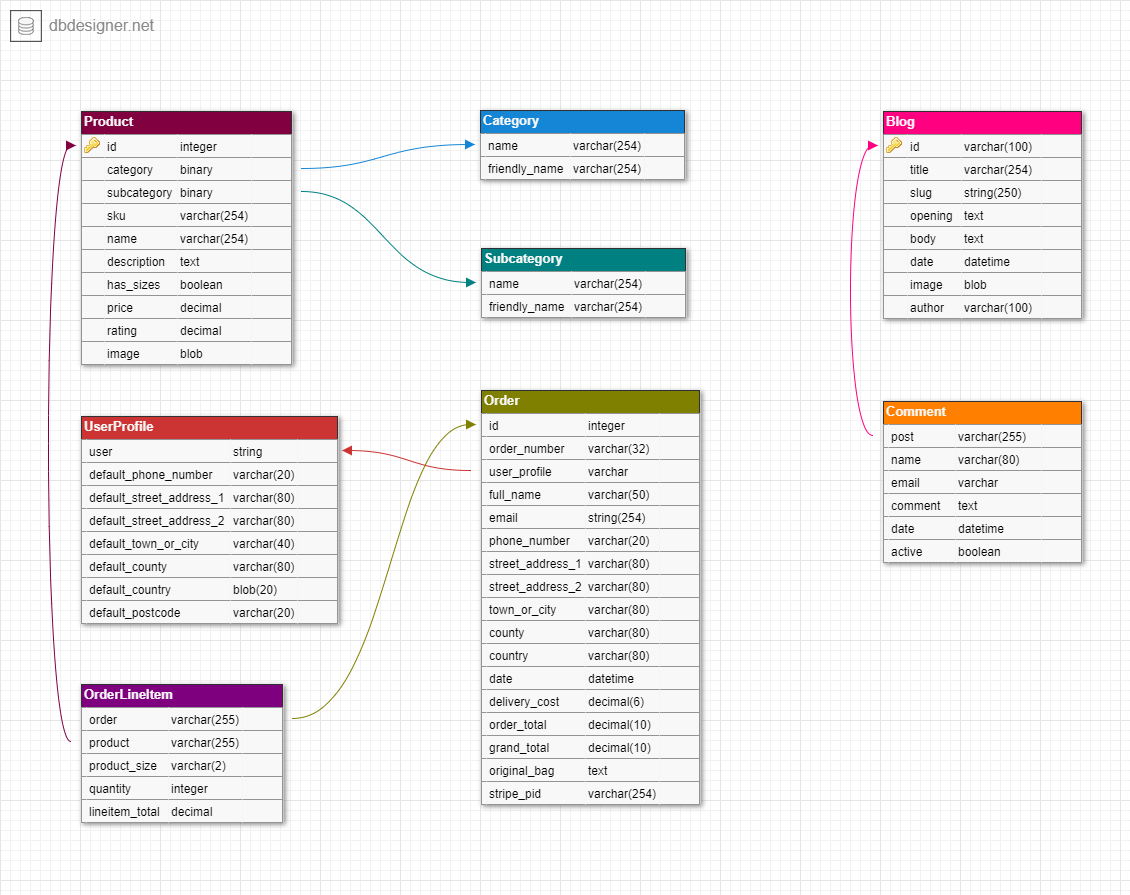
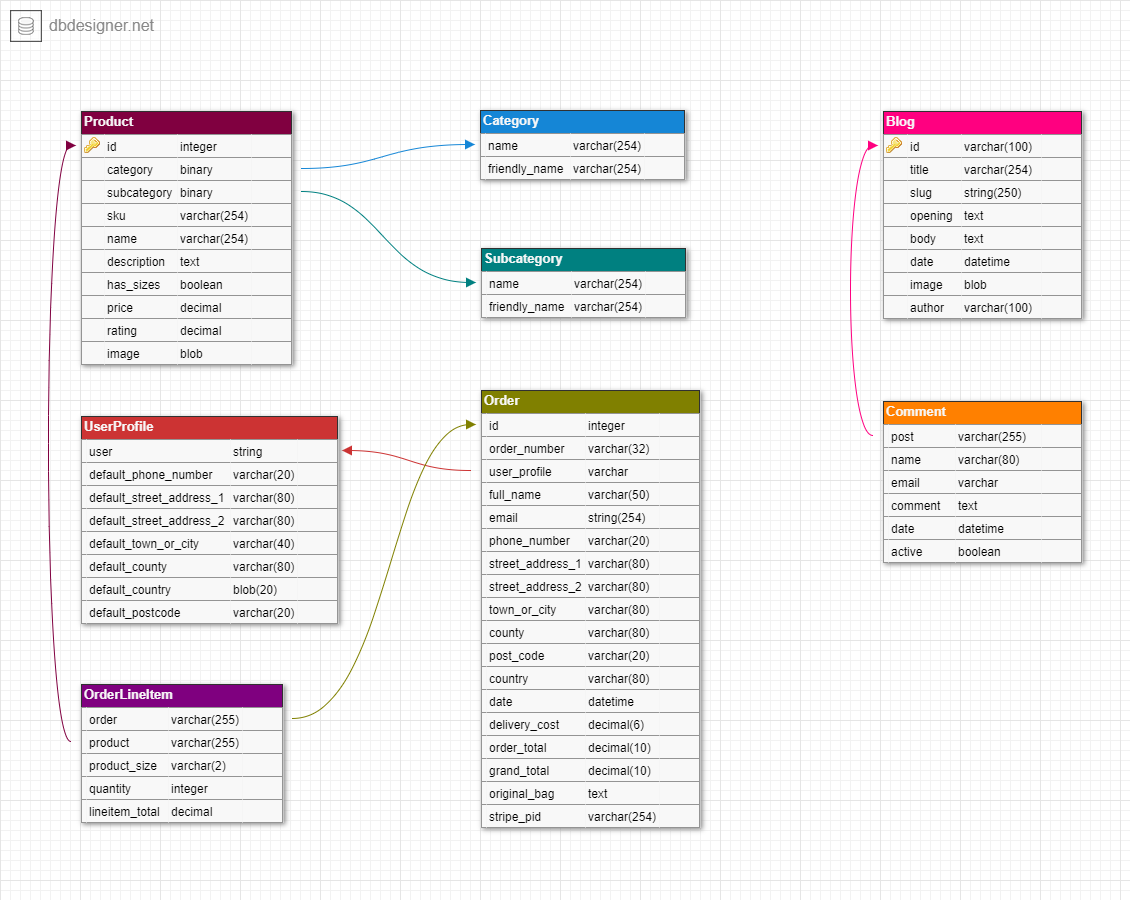
Add further content to ReadMe

diff --git a/README.md b/README.md
@@ -116,3 +116,50 @@ category and subcategory, and is also a Foreign Key to the OrderLineItem model.
 | price       | models.DecimalField |
 | rating      | models.DecimalField |
 | image       | models.ImageField   |
+
+### Category and Subcategory models
+
+The Category and Subcategory models are identical, both contain two fields. A name field which is used in the back end. The 
+other field is a friendly_name which is used to display the name to the end user.
+
+| Field         | Type             |
+|---------------|------------------|
+| name          | models.Charfield |
+| friendly_name | models.Charfield |
+
+### Order model
+
+The order model is created in the checkout app, and is used to handle all orders across the site. It takes
+the user_profile as a Foreign key to bring across registered users stored details.
+
+| Field            | Type                 |
+|------------------|----------------------|
+| order_number     | models.CharField     |
+| user_profile     | models.ForeignKey    |
+| full_name        | models.CharField     |
+| email            | models.EmailField    |
+| phone_number     | models.CharField     |
+| street_address_1 | models.CharField     |
+| street_address_2 | models.CharField     |
+| town_or_city     | models.CharField     |
+| county           | models.CharField     |
+| post_code        | models.CharField     |
+| country          | models.CharField     |
+| date             | models.DateTimeField |
+| delivery_cost    | models.DecimalField  |
+| order_total      | models.DecimalField  |
+| grand_total      | models.DecimalField  |
+| original_bag     | models.TextField     |
+| stripe_pid       | models.CharField     |
+
+### OrderLineItem model
+
+
+
+| Field          | Type                |
+|----------------|---------------------|
+| order          | models.ForeignKey   |
+| product        | models.ForeignKey   |
+| product_size   | models.CharField    |
+| quantity       | models.IntegerField |
+| lineitem_total | models.DecimalField |
